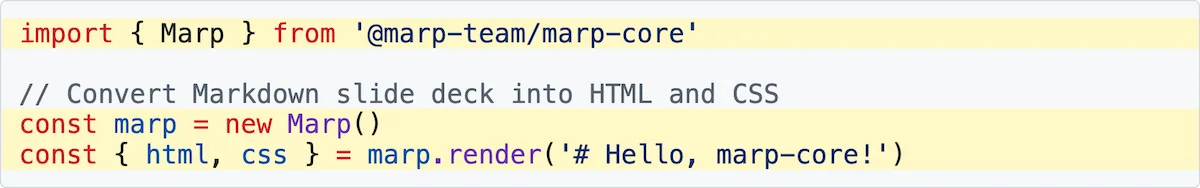
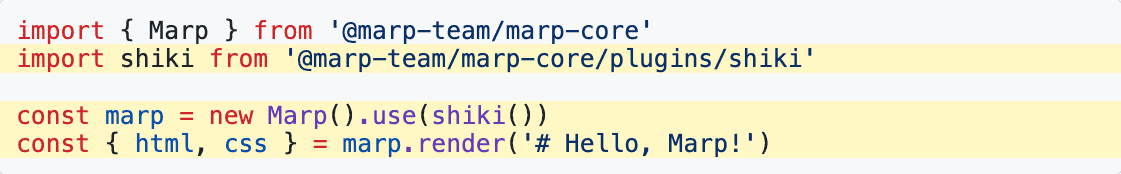
Update docs assets for syntax highlighting

diff --git a/docs/markdown.md b/docs/markdown.md
@@ -38,17 +38,31 @@ Applications can change these defaults through [constructor options](./configura
 
 ## [Themes]
 
+[themes]: #themes
+
 Marp Core includes 3 built-in themes:
 
-|           Default            |           Gaia            |           Uncover            |
-| :--------------------------: | :-----------------------: | :--------------------------: |
-| [![][default-theme]][themes] | [![][gaia-theme]][themes] | [![][uncover-theme]][themes] |
-|  `<!-- theme: default -->`   |  `<!-- theme: gaia -->`   |  `<!-- theme: uncover -->`   |
-
-[themes]: ../themes/
-[default-theme]: https://user-images.githubusercontent.com/3993388/48039490-53be1b80-e1b8-11e8-8179-0e6c11d285e2.png
-[gaia-theme]: https://user-images.githubusercontent.com/3993388/48039493-5456b200-e1b8-11e8-9c49-dd5d66d76c0d.png
-[uncover-theme]: https://user-images.githubusercontent.com/3993388/48039495-5456b200-e1b8-11e8-8c82-ca7f7842b34d.png
+<table>
+  <thead>
+    <tr>
+      <th align="center">Default</th>
+      <th align="center">Gaia</th>
+      <th align="center">Uncover</th>
+    </tr>
+  </thead>
+  <tbody>
+    <tr>
+      <td align="center"><img src="./assets/themes/default.png" width="180" alt="Default theme" /></td>
+      <td align="center"><img src="./assets/themes/gaia.png" width="180" alt="Gaia theme" /></td>
+      <td align="center"><img src="./assets/themes/uncover.png" width="180" alt="Uncover theme" /></td>
+    </tr>
+    <tr>
+      <td align="center"><code>&lt;!-- theme: default --&gt;</code></td>
+      <td align="center"><code>&lt;!-- theme: gaia --&gt;</code></td>
+      <td align="center"><code>&lt;!-- theme: uncover --&gt;</code></td>
+    </tr>
+  </tbody>
+</table>
 
 See [themes documentation][themes] for details.
 

diff --git a/README.md b/README.md
@@ -26,8 +26,8 @@ Since v5, Marp Core has been split into a lightweight core and [optional core pl
 
 | Entrypoint                      | Description                                                                             | Bundled size\* |
 | ------------------------------- | --------------------------------------------------------------------------------------- | -------------- |
-| **`@marp-team/marp-core`**      | Lightweight core with Marp's essential features                                         | 0.5MB          |
-| **`@marp-team/marp-core/full`** | Full build with all core plugins<br />_(requires installing all optional dependencies)_ | 11.4MB         |
+| **`@marp-team/marp-core`**      | Lightweight core with Marp's essential features                                         | 0.5MiB         |
+| **`@marp-team/marp-core/full`** | Full build with all core plugins<br />_(requires installing all optional dependencies)_ | 11.4MiB        |
 
 ###### \*: Rough estimates for a minified browser ESM build before gzip. The full entrypoint includes all optional dependencies.
 
